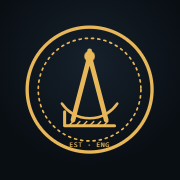
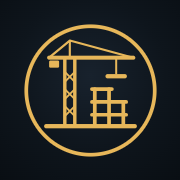
تحديث الموقع من 85e4115

Changed region(s): [[0.1111, 0.1111, 0.8889, 0.8889]]

diff --git a/index.html b/index.html
@@ -616,7 +616,7 @@ footer .note { grid-column: 1 / -1; color: var(--muted); border-top: 1px solid v
   <p id="get-app-done" class="get-app-done" role="status" hidden>افتح الملف اللي اتحمل علشان تثبّت التطبيق.</p>
   <div class="intro-card">
     <div class="intro-top">
-      <div class="logo" aria-hidden="true"><svg viewBox="0 0 96 96" fill="none" stroke="currentColor" stroke-linecap="round"><circle cx="48" cy="48" r="45" stroke-width="2.4"/><circle cx="48" cy="48" r="37" stroke-width="1.2" stroke-dasharray="1.5 3"/><path d="M48 20v4M48 24 36 70M48 24l12 46" stroke-width="3.4"/><circle cx="48" cy="24" r="3.8" fill="currentColor" stroke="none"/><path d="M28 58A24 24 0 0 0 68 58" stroke-width="1.8"/><path d="M30 74h36M30 74V64" stroke-width="2.2"/><path d="M33 74l3-3M38 74l3-3M43 74l3-3M48 74l3-3M53 74l3-3M58 74l3-3" stroke-width="1.1"/><text x="48" y="89.4" text-anchor="middle" font-family="IBM Plex Mono, monospace" font-size="5" fill="currentColor" stroke="none" letter-spacing=".5">EST · ENG</text></svg></div>
+      <div class="logo" aria-hidden="true"><svg viewBox="0 0 96 96" fill="none" stroke="currentColor" stroke-linecap="round" stroke-linejoin="round"><circle cx="48" cy="48" r="45" stroke-width="2.6"/><path d="M17 73h62" stroke-width="3"/><path d="M51 73V47M61 73V47M71 73V57" stroke-width="2.6"/><path d="M49 65h24M49 56h24M49 47h14" stroke-width="2.6"/><path d="M30 73V25M37 73V25" stroke-width="2.4"/><path d="M30 66l7-7M37 66l-7-7M30 54l7-7M37 54l-7-7M30 42l7-7M37 42l-7-7" stroke-width="1.3"/><path d="M19 25h59" stroke-width="2.8"/><path d="M33.5 13v12M33.5 13 78 25M33.5 13 19 25" stroke-width="1.5"/><rect x="19" y="27" width="7" height="5" rx="1" fill="currentColor" stroke="none"/><path d="M66 25v11" stroke-width="1.4"/><path d="M60 38h12" stroke-width="3"/></svg></div>
     </div>
     <p class="hello">أهلاً يا هندسة</p>
     <h2 id="intro-title" class="geox-title"><svg class="geox" viewBox="0 0 236 104" role="img" aria-label="GeoX"><defs><linearGradient id="gx-intro" x1="0" y1="0" x2="1" y2="1"><stop offset="0" stop-color="#f6d690"/><stop offset=".55" stop-color="#e7b75a"/><stop offset="1" stop-color="#b9852b"/></linearGradient></defs><g fill="none" stroke-linecap="round" stroke-linejoin="round"><path d="M76.6 27.4A38 38 0 1 0 84 52H60" stroke="url(#gx-intro)" stroke-width="12"/><path d="M96 66H114A9 9 0 1 0 111.4 72.4" stroke="url(#gx-intro)" stroke-width="6"/><circle cx="134" cy="66" r="9" stroke="url(#gx-intro)" stroke-width="6"/><path class="cut" d="M222 14 160 90C140 112 70 104 46 90" stroke-width="20"/><path d="M222 14 160 90C140 112 70 104 46 90" stroke="url(#gx-intro)" stroke-width="10"/><path class="cut" d="M160 14 222 90" stroke-width="22"/><path d="M160 14 222 90" stroke="url(#gx-intro)" stroke-width="12"/></g></svg></h2>
@@ -631,7 +631,7 @@ footer .note { grid-column: 1 / -1; color: var(--muted); border-top: 1px solid v
     <div class="bar">
       <button id="menu-btn" class="menu-btn" type="button" aria-controls="drawer" aria-expanded="false"><span class="burger" aria-hidden="true"><i></i><i></i><i></i></span>الأدوات</button>
       <div class="brand">
-        <div class="logo" aria-hidden="true"><svg viewBox="0 0 96 96" fill="none" stroke="currentColor" stroke-linecap="round"><circle cx="48" cy="48" r="45" stroke-width="2.4"/><circle cx="48" cy="48" r="37" stroke-width="1.2" stroke-dasharray="1.5 3"/><path d="M48 20v4M48 24 36 70M48 24l12 46" stroke-width="3.4"/><circle cx="48" cy="24" r="3.8" fill="currentColor" stroke="none"/><path d="M28 58A24 24 0 0 0 68 58" stroke-width="1.8"/><path d="M30 74h36M30 74V64" stroke-width="2.2"/><path d="M33 74l3-3M38 74l3-3M43 74l3-3M48 74l3-3M53 74l3-3M58 74l3-3" stroke-width="1.1"/><text x="48" y="89.4" text-anchor="middle" font-family="IBM Plex Mono, monospace" font-size="5" fill="currentColor" stroke="none" letter-spacing=".5">EST · ENG</text></svg></div>
+        <div class="logo" aria-hidden="true"><svg viewBox="0 0 96 96" fill="none" stroke="currentColor" stroke-linecap="round" stroke-linejoin="round"><circle cx="48" cy="48" r="45" stroke-width="2.6"/><path d="M17 73h62" stroke-width="3"/><path d="M51 73V47M61 73V47M71 73V57" stroke-width="2.6"/><path d="M49 65h24M49 56h24M49 47h14" stroke-width="2.6"/><path d="M30 73V25M37 73V25" stroke-width="2.4"/><path d="M30 66l7-7M37 66l-7-7M30 54l7-7M37 54l-7-7M30 42l7-7M37 42l-7-7" stroke-width="1.3"/><path d="M19 25h59" stroke-width="2.8"/><path d="M33.5 13v12M33.5 13 78 25M33.5 13 19 25" stroke-width="1.5"/><rect x="19" y="27" width="7" height="5" rx="1" fill="currentColor" stroke="none"/><path d="M66 25v11" stroke-width="1.4"/><path d="M60 38h12" stroke-width="3"/></svg></div>
         <div class="wordmark"><h1><svg class="geox" viewBox="0 0 236 104" role="img" aria-label="GeoX"><defs><linearGradient id="gx-head" x1="0" y1="0" x2="1" y2="1"><stop offset="0" stop-color="#f6d690"/><stop offset=".55" stop-color="#e7b75a"/><stop offset="1" stop-color="#b9852b"/></linearGradient></defs><g fill="none" stroke-linecap="round" stroke-linejoin="round"><path d="M76.6 27.4A38 38 0 1 0 84 52H60" stroke="url(#gx-head)" stroke-width="12"/><path d="M96 66H114A9 9 0 1 0 111.4 72.4" stroke="url(#gx-head)" stroke-width="6"/><circle cx="134" cy="66" r="9" stroke="url(#gx-head)" stroke-width="6"/><path class="cut" d="M222 14 160 90C140 112 70 104 46 90" stroke-width="20"/><path d="M222 14 160 90C140 112 70 104 46 90" stroke="url(#gx-head)" stroke-width="10"/><path class="cut" d="M160 14 222 90" stroke-width="22"/><path d="M160 14 222 90" stroke="url(#gx-head)" stroke-width="12"/></g></svg><span class="brand-egy-head" role="img" aria-label="أحمد فتحي بالهيروغليفي" data-no-i18n>𓄿𓎛𓅓𓂧𓆑𓏏𓎛𓇌𓀀</span></h1><small>أدوات المساحة والهندسة</small></div>
       </div>
       <div class="utility">
